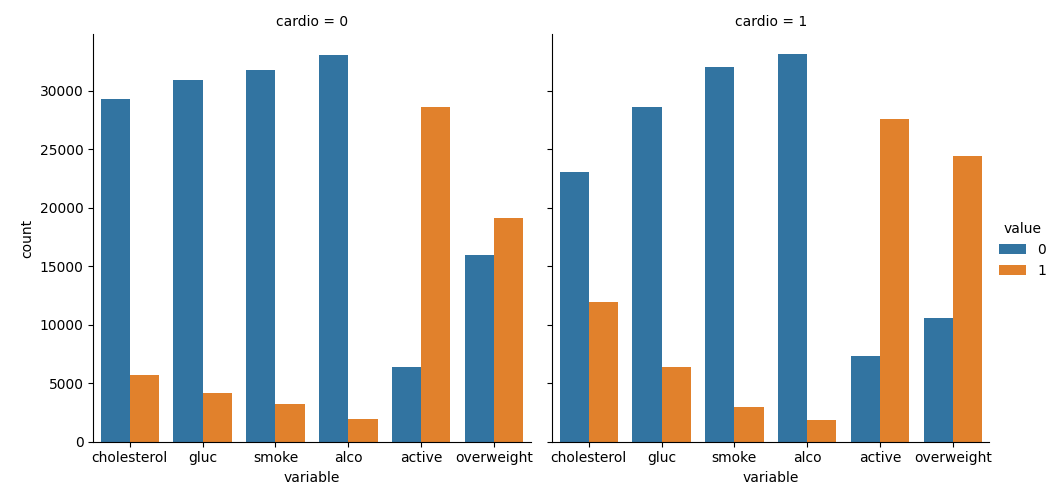
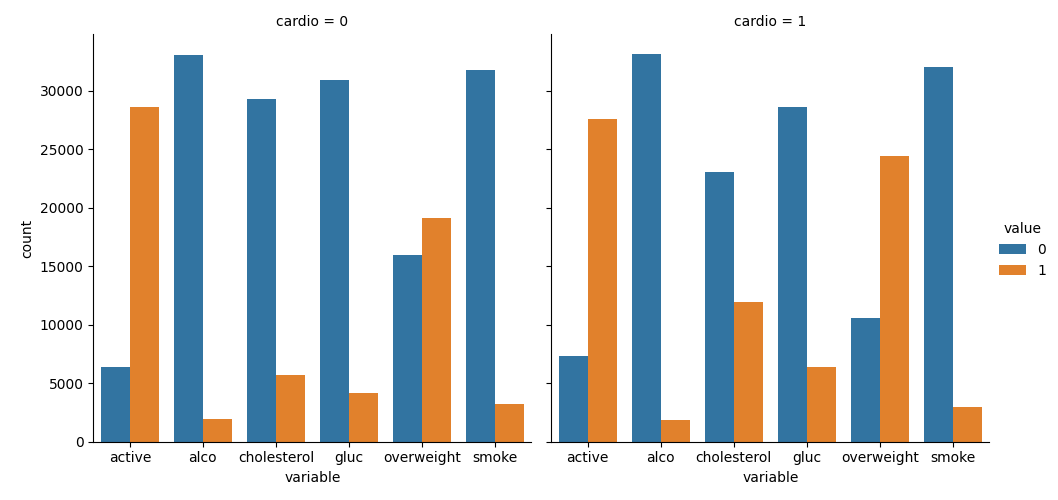
fix: порядок

diff --git a/medical_data_visualizer.py b/medical_data_visualizer.py
@@ -23,7 +23,7 @@ def draw_cat_plot():
     # 5
     global df
     # DataFrame.melt(id_vars=None, value_vars=None, var_name=None, value_name='value', col_level=None, ignore_index=True)
-    df_cat = df.melt(id_vars=['cardio'], value_vars=['cholesterol', 'gluc', 'smoke', 'alco', 'active', 'overweight'])
+    df_cat = df.melt(id_vars=['cardio'], value_vars=['active','alco','cholesterol','gluc','overweight','smoke'])
 
     #print(df_cat)
     # 6
